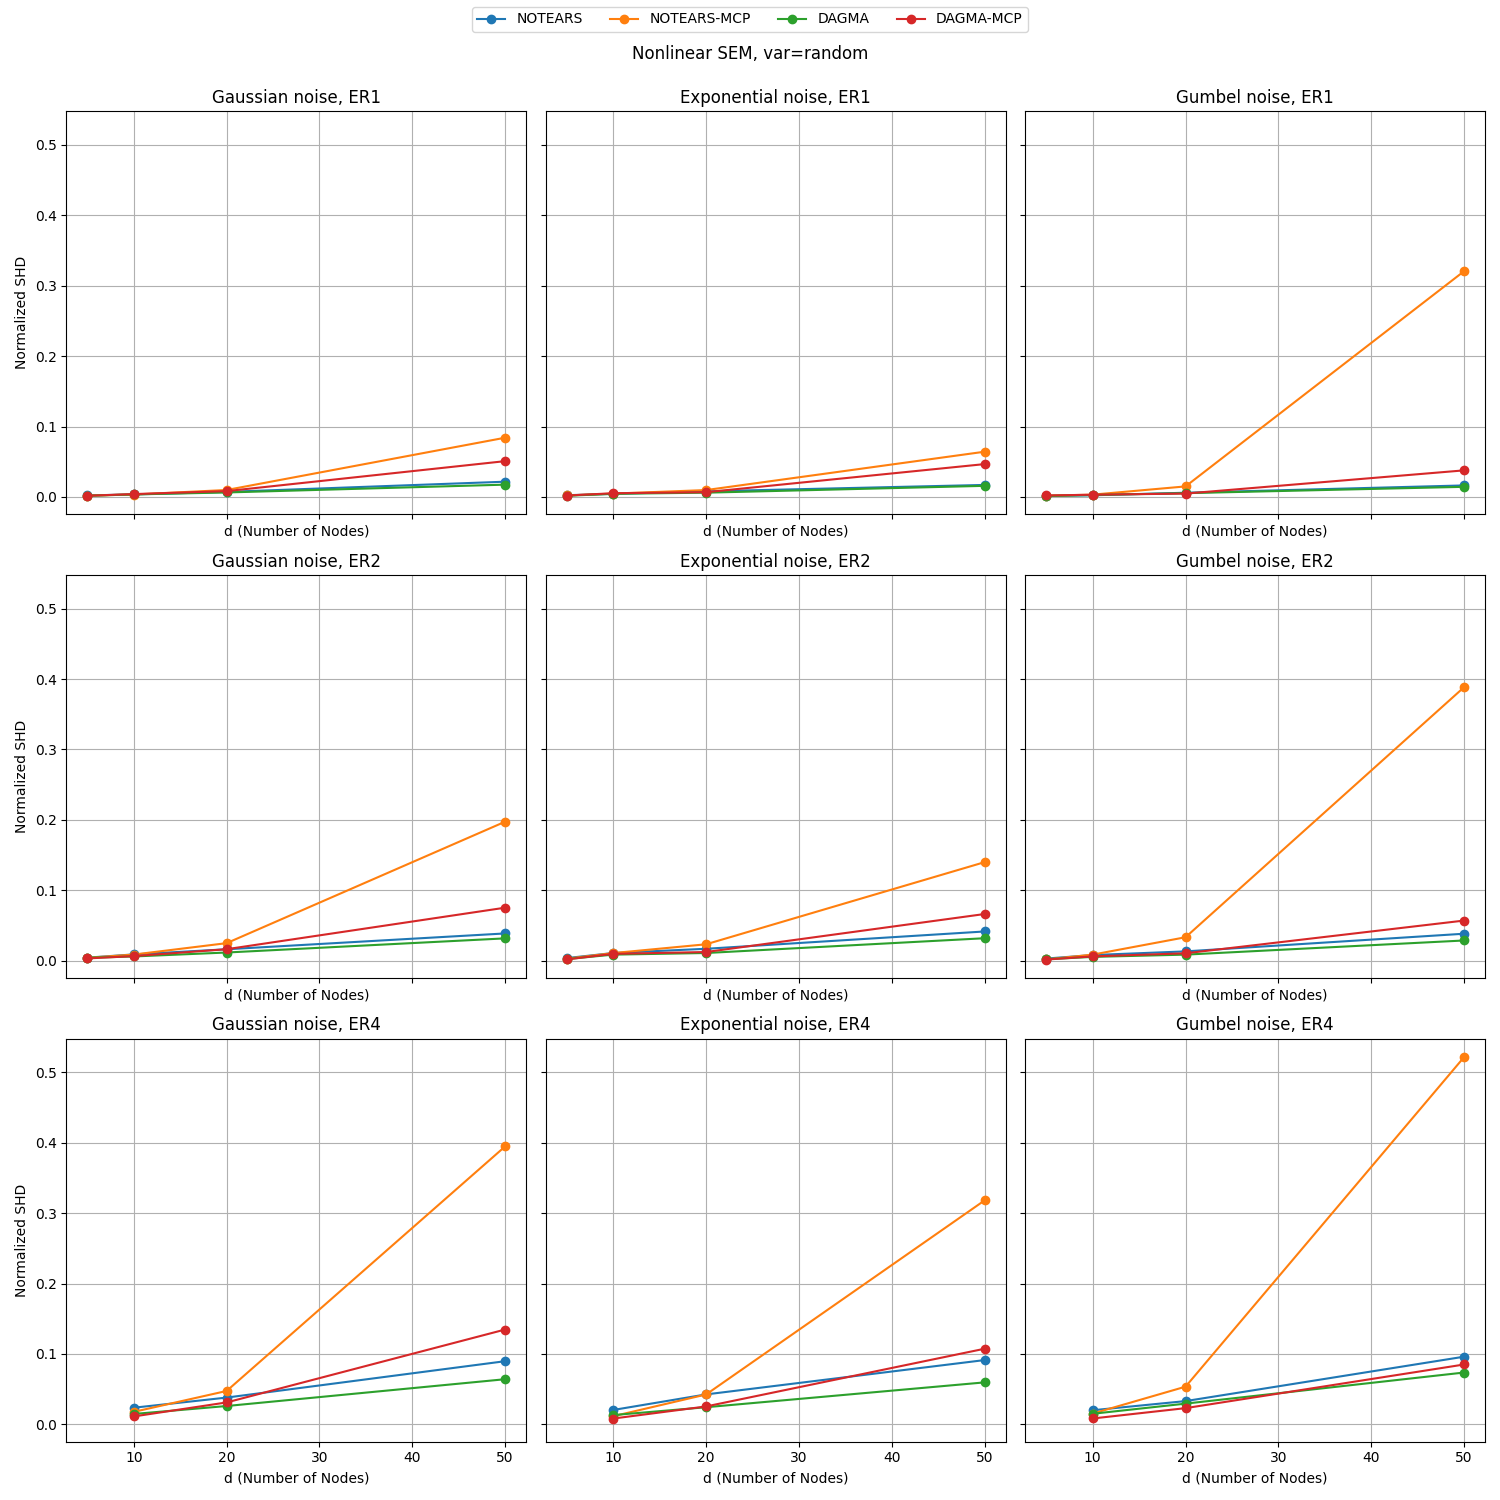
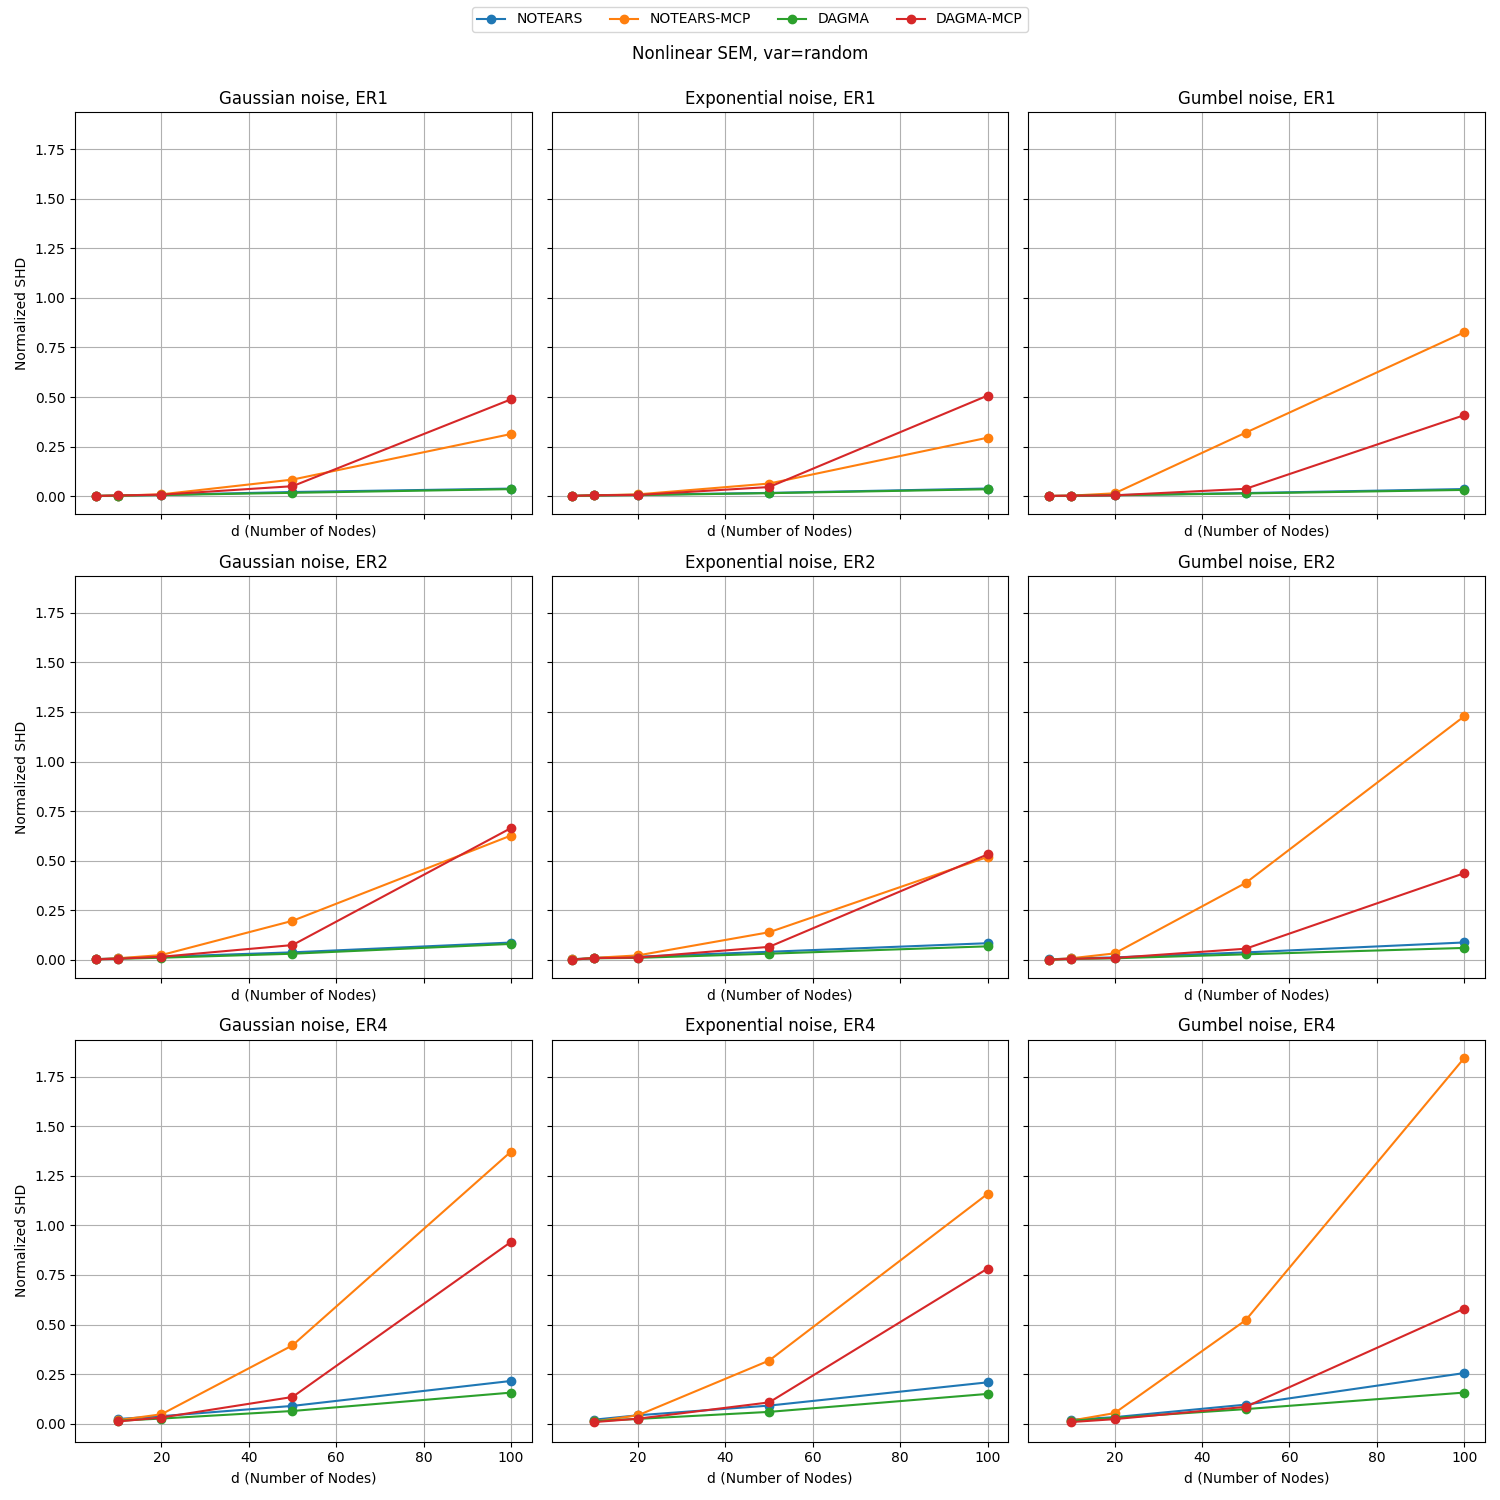
update with 100 nodes

diff --git a/benchmark/mcp_nonlinear/reconstruct.py b/benchmark/mcp_nonlinear/reconstruct.py
@@ -2,7 +2,7 @@ import pandas as pd
 import numpy as np
 import matplotlib.pyplot as plt
 
-num_nodes = [5, 10, 20, 50]
+num_nodes = [5, 10, 20, 50, 100]
 s0_ratios = [1, 2, 4]
 noise_types = ["gauss", "exp", "gumbel"]
 methods = ["NOTEARS", "NOTEARS-MCP", "DAGMA", "DAGMA-MCP"]
